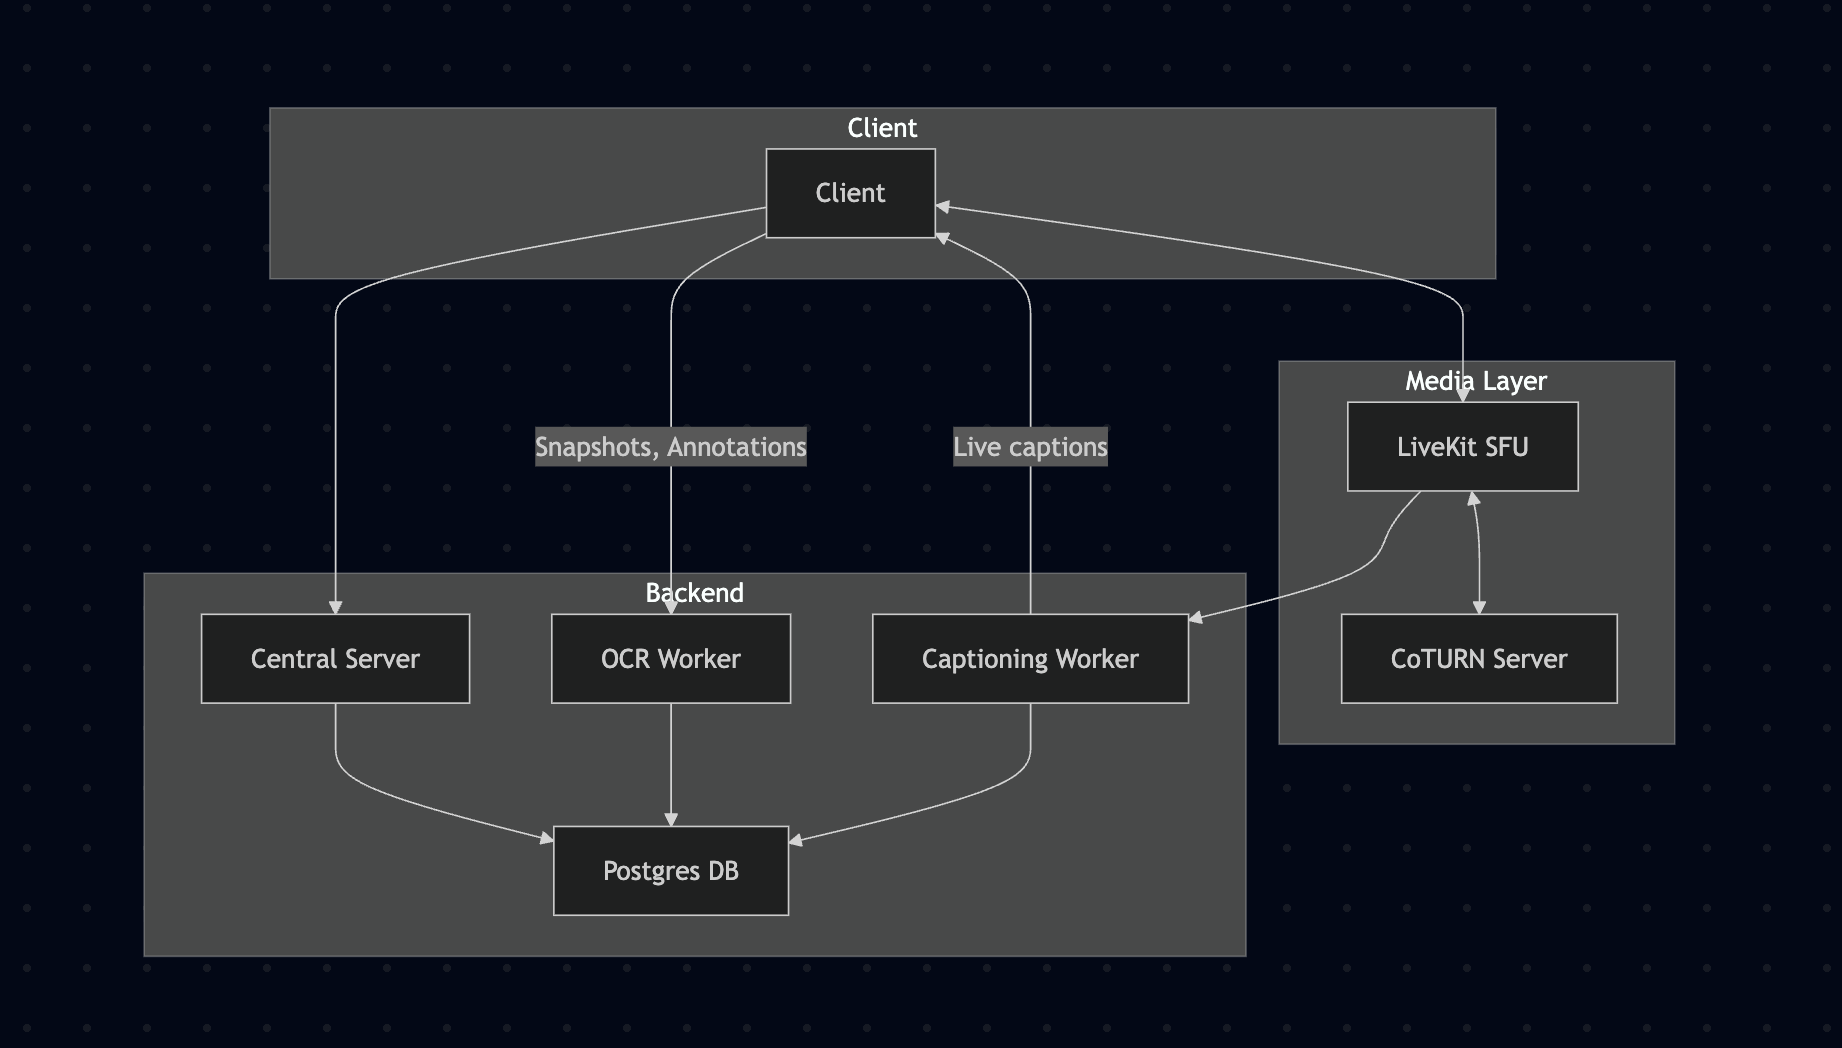
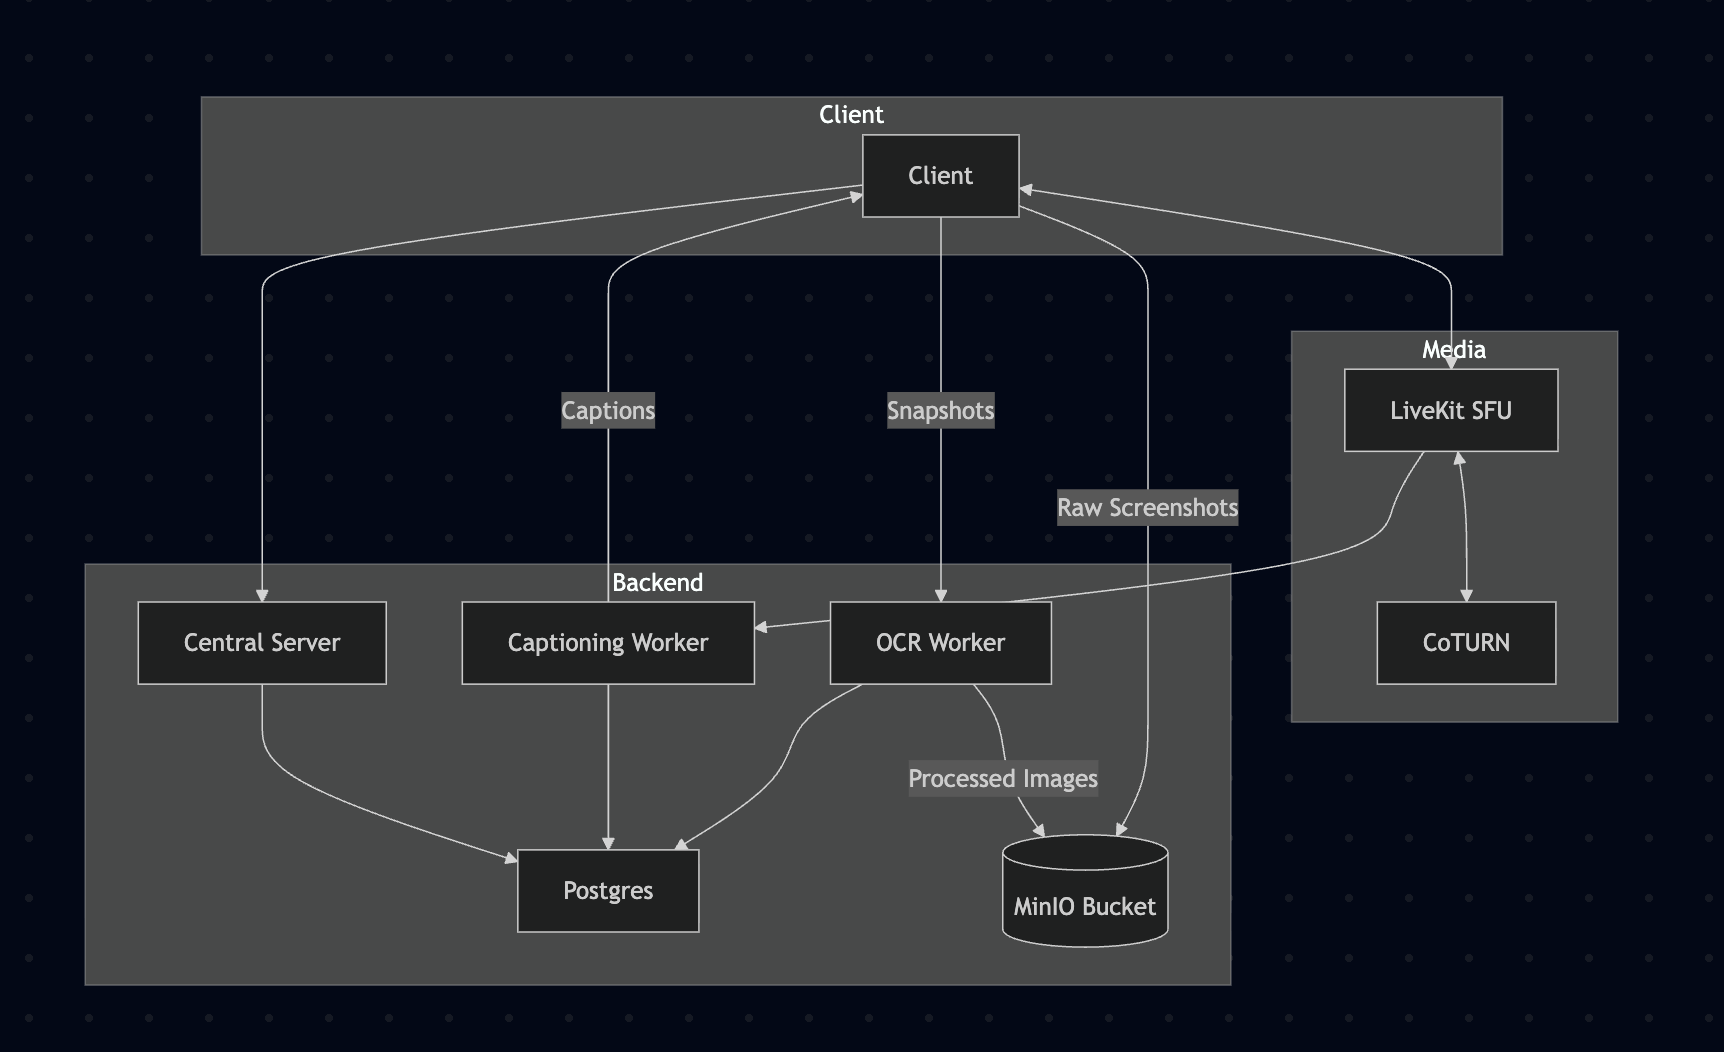
feat: add bucket

diff --git a/crates/config/src/minio.rs b/crates/config/src/minio.rs
@@ -1,0 +1,61 @@
+use serde::{Deserialize, Serialize};
+
+#[derive(Debug, Clone, Serialize, Deserialize)]
+pub struct MinioConfig {
+    pub endpoint: String,
+    pub access_key: String,
+    pub secret_key: String,
+    pub region: Option<String>,
+    pub secure: bool,
+    pub buckets: MinioBuckets,
+}
+
+#[derive(Debug, Clone, Serialize, Deserialize)]
+pub struct MinioBuckets {
+    pub uploads: String,
+    pub processed: String,
+    pub thumbnails: String,
+    pub temp: String,
+}
+
+impl Default for MinioConfig {
+    fn default() -> Self {
+        Self {
+            endpoint: "localhost:9000".to_string(),
+            access_key: "minioadmin".to_string(),
+            secret_key: "minioadmin123".to_string(),
+            region: Some("us-east-1".to_string()),
+            secure: false,
+            buckets: MinioBuckets::default(),
+        }
+    }
+}
+
+impl Default for MinioBuckets {
+    fn default() -> Self {
+        Self {
+            uploads: "uploads".to_string(),
+            processed: "processed".to_string(),
+            thumbnails: "thumbnails".to_string(),
+            temp: "temp".to_string(),
+        }
+    }
+}
+
+impl MinioConfig {
+    pub fn from_env() -> Self {
+        Self {
+            endpoint: std::env::var("MINIO_ENDPOINT").unwrap_or_else(|_| "localhost:9000".to_string()),
+            access_key: std::env::var("MINIO_ACCESS_KEY").unwrap_or_else(|_| "minioadmin".to_string()),
+            secret_key: std::env::var("MINIO_SECRET_KEY").unwrap_or_else(|_| "minioadmin123".to_string()),
+            region: std::env::var("MINIO_REGION").ok(),
+            secure: std::env::var("MINIO_SECURE").unwrap_or_else(|_| "false".to_string()).parse().unwrap_or(false),
+            buckets: MinioBuckets {
+                uploads: std::env::var("MINIO_BUCKET_UPLOADS").unwrap_or_else(|_| "uploads".to_string()),
+                processed: std::env::var("MINIO_BUCKET_PROCESSED").unwrap_or_else(|_| "processed".to_string()),
+                thumbnails: std::env::var("MINIO_BUCKET_THUMBNAILS").unwrap_or_else(|_| "thumbnails".to_string()),
+                temp: std::env::var("MINIO_BUCKET_TEMP").unwrap_or_else(|_| "temp".to_string()),
+            },
+        }
+    }
+}

diff --git a/crates/config/src/ollama.rs b/crates/config/src/ollama.rs
@@ -25,15 +25,15 @@ impl OllamaConfig {
     pub fn api_url(&self) -> String {
         format!("{}/api", self.base_url)
     }
-    
+
     pub fn generate_url(&self) -> String {
         format!("{}/api/generate", self.base_url)
     }
-    
+
     pub fn chat_url(&self) -> String {
         format!("{}/api/chat", self.base_url)
     }
-    
+
     pub fn from_env() -> anyhow::Result<Self> {
         Ok(Self {
             base_url: std::env::var("OLLAMA_BASE_URL")

diff --git a/crates/config/src/db.rs b/crates/config/src/db.rs
@@ -32,7 +32,7 @@ impl DatabaseConfig {
             self.username, self.password, self.host, self.port, self.database
         )
     }
-    
+
     pub fn from_env() -> anyhow::Result<Self> {
         Ok(Self {
             host: std::env::var("DB_HOST").unwrap_or_else(|_| "localhost".to_string()),

diff --git a/crates/config/src/lib.rs b/crates/config/src/lib.rs
@@ -1,10 +1,12 @@
 pub mod db;
-pub mod ollama;
 pub mod redis;
+pub mod ollama;
+pub mod minio;
 
 pub use db::*;
-pub use ollama::*;
 pub use redis::*;
+pub use ollama::*;
+pub use minio::*;
 
 use serde::{Deserialize, Serialize};
 

diff --git a/blobs/arch.md b/blobs/arch.md
@@ -1,0 +1,31 @@
+```mermaid
+flowchart TD
+  subgraph Client
+    A[Client]
+  end
+
+  subgraph Media
+    B1[LiveKit SFU]
+    B2[CoTURN]
+  end
+
+  subgraph Backend
+    C1[Central Server]
+    C2[Captioning Worker]
+    C3[OCR Worker]
+    C4[Postgres]
+    C5[(MinIO Bucket)]
+  end
+
+  A <--> B1
+  B1 <--> B2
+  B1 --> C2
+  C2 -->|Captions| A
+  A -->|Snapshots| C3
+  A -->|Raw Screenshots| C5
+  C3 --> C4
+  C3 -->|Processed Images| C5
+  C2 --> C4
+  C1 --> C4
+  A --> C1
+```
